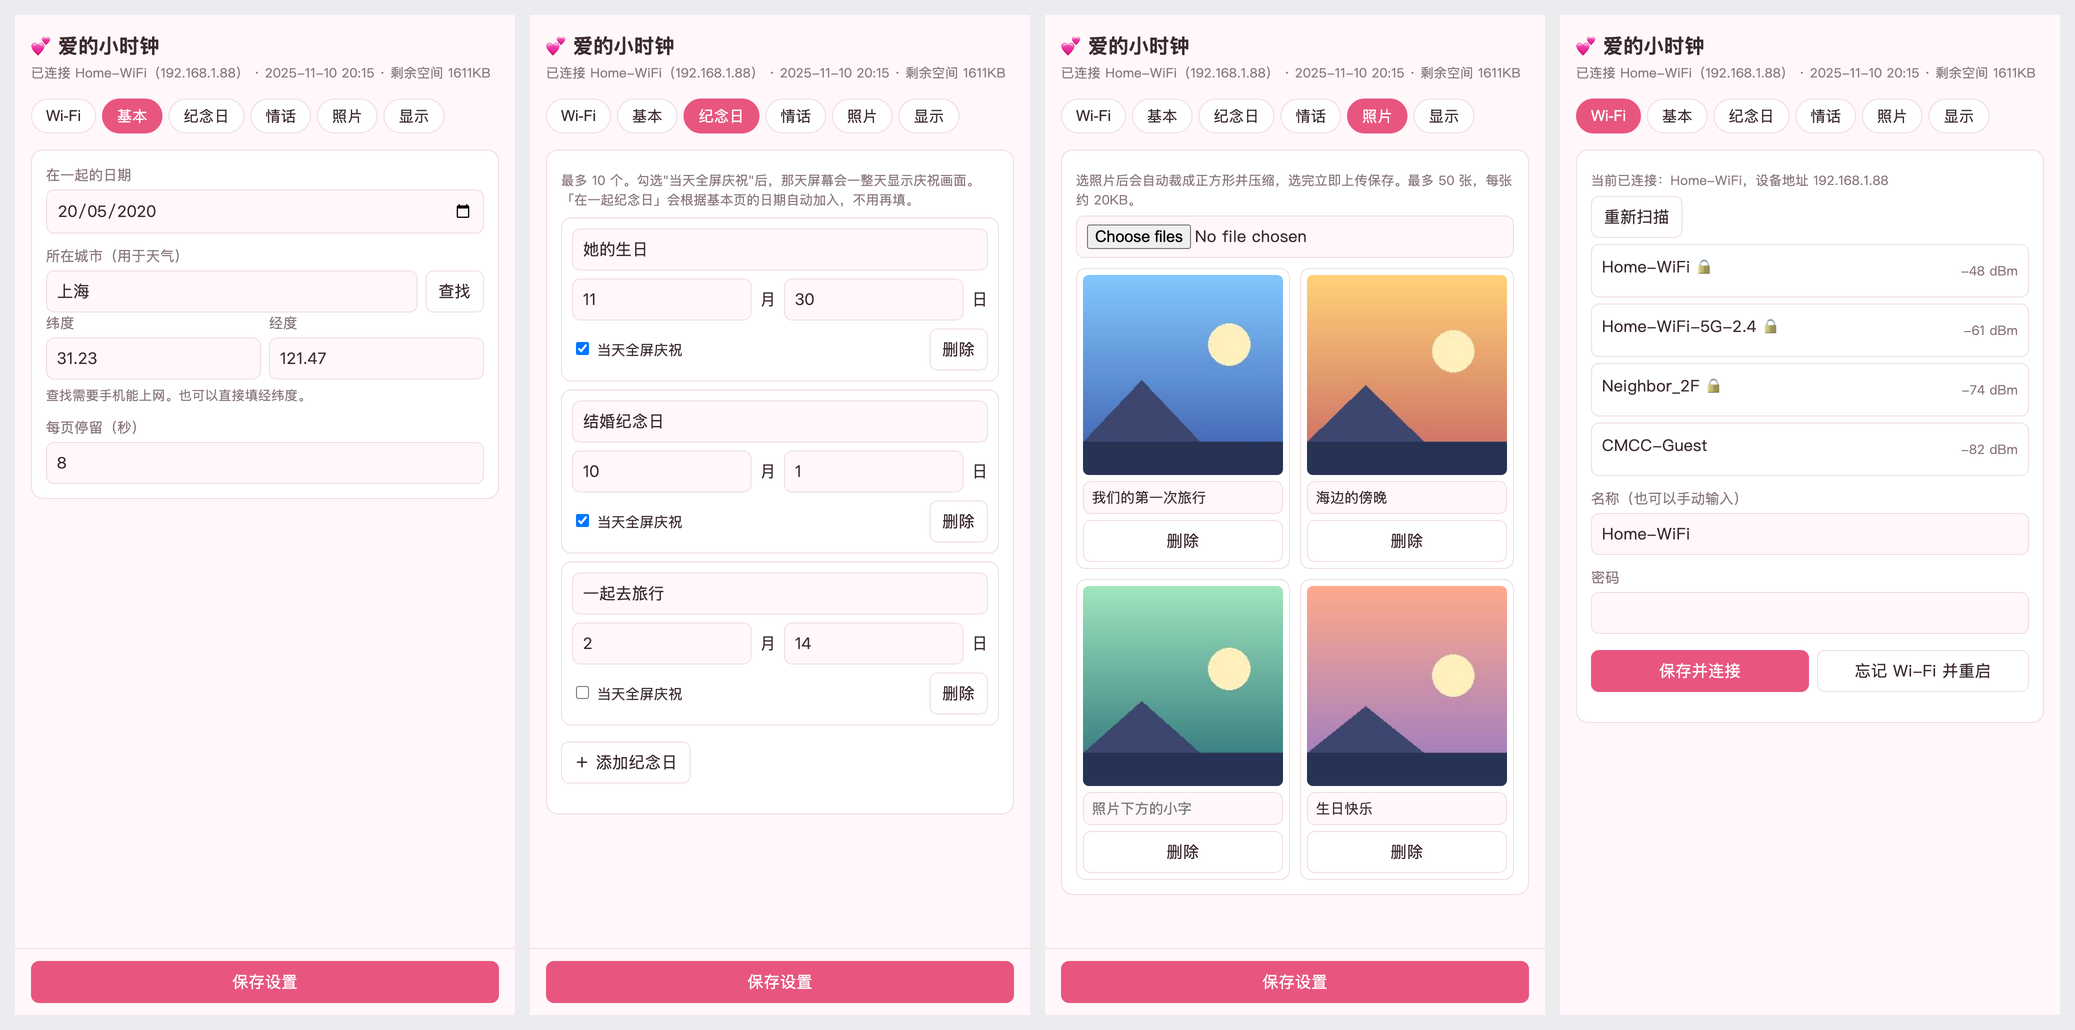
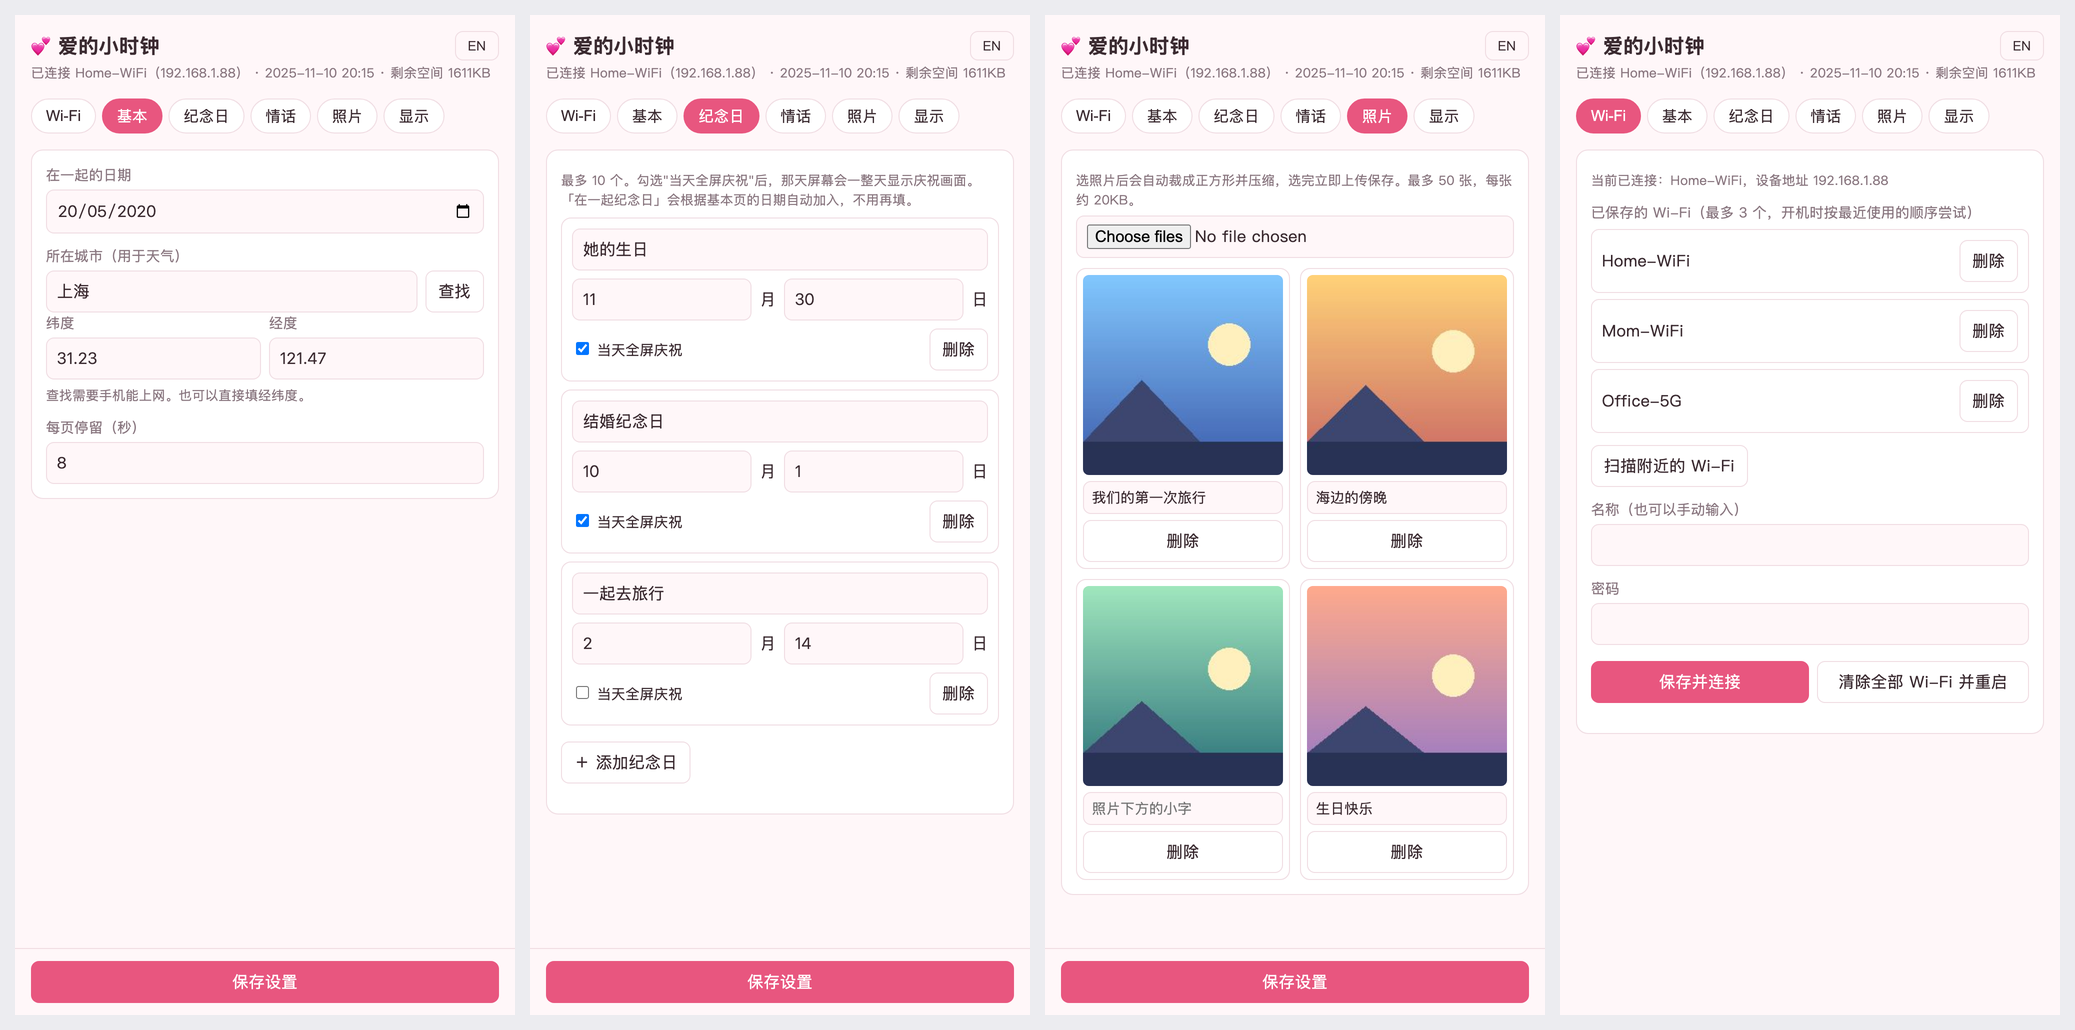
README: update screenshots, file table, limits; add English settings page image

diff --git a/README.md b/README.md
@@ -168,6 +168,10 @@ Mac 上若看不到串口，需要安装 CH340 驱动（WCH 官网搜 "CH34x Mac
 
 ![设置页：基本、纪念日、照片、Wi-Fi](docs/web.png)
 
+英文界面：
+
+![Settings page in English](docs/web_en.png)
+
 > 设置页截图使用的是示例数据。
 
 只支持 2.4GHz Wi-Fi。
@@ -192,7 +196,8 @@ Mac 上若看不到串口，需要安装 CH340 驱动（WCH 官网搜 "CH34x Mac
 | `display.h` | 屏幕驱动、日期计算、各页面绘制、庆祝页和动画 |
 | `weather.h` | 天气请求与解析 |
 | `web_ui.h` | 热点配网、强制门户、设置页后端接口 |
-| `web_page.h` | 内嵌的设置网页（HTML/CSS/JS） |
+| `web_page.h` | 内嵌的设置网页（HTML/CSS/JS），含中英文切换 |
+| `docs/` | README 用的图：`screens.png`、`screens_en.png`（屏幕）、`wiring.png`（接线）、`web.png`、`web_en.png`（设置页） |
 
 ## 常见问题
 
@@ -218,6 +223,8 @@ Mac 上若看不到串口，需要安装 CH340 驱动（WCH 官网搜 "CH34x Mac
 
 - 只支持 2.4GHz Wi-Fi。
 - 时区固定为东八区。
+- 英文界面只翻译固件和网页自带的文字；你填的纪念日名称、照片说明、情话不会自动翻译，想显示英文需要自己填英文。
+- 最多记住 3 个 Wi-Fi，新增第 4 个会淘汰最久没用的。
 - 设置页是明文 HTTP，只在局域网内使用；密码仅用于防止误改，不是严格的安全措施。
 - 纪念日最多 10 个，照片最多 50 张，情话约 50 句（总计受 2MB 文件系统限制）。
 - 16 像素中文字体放大后边缘有锯齿。
